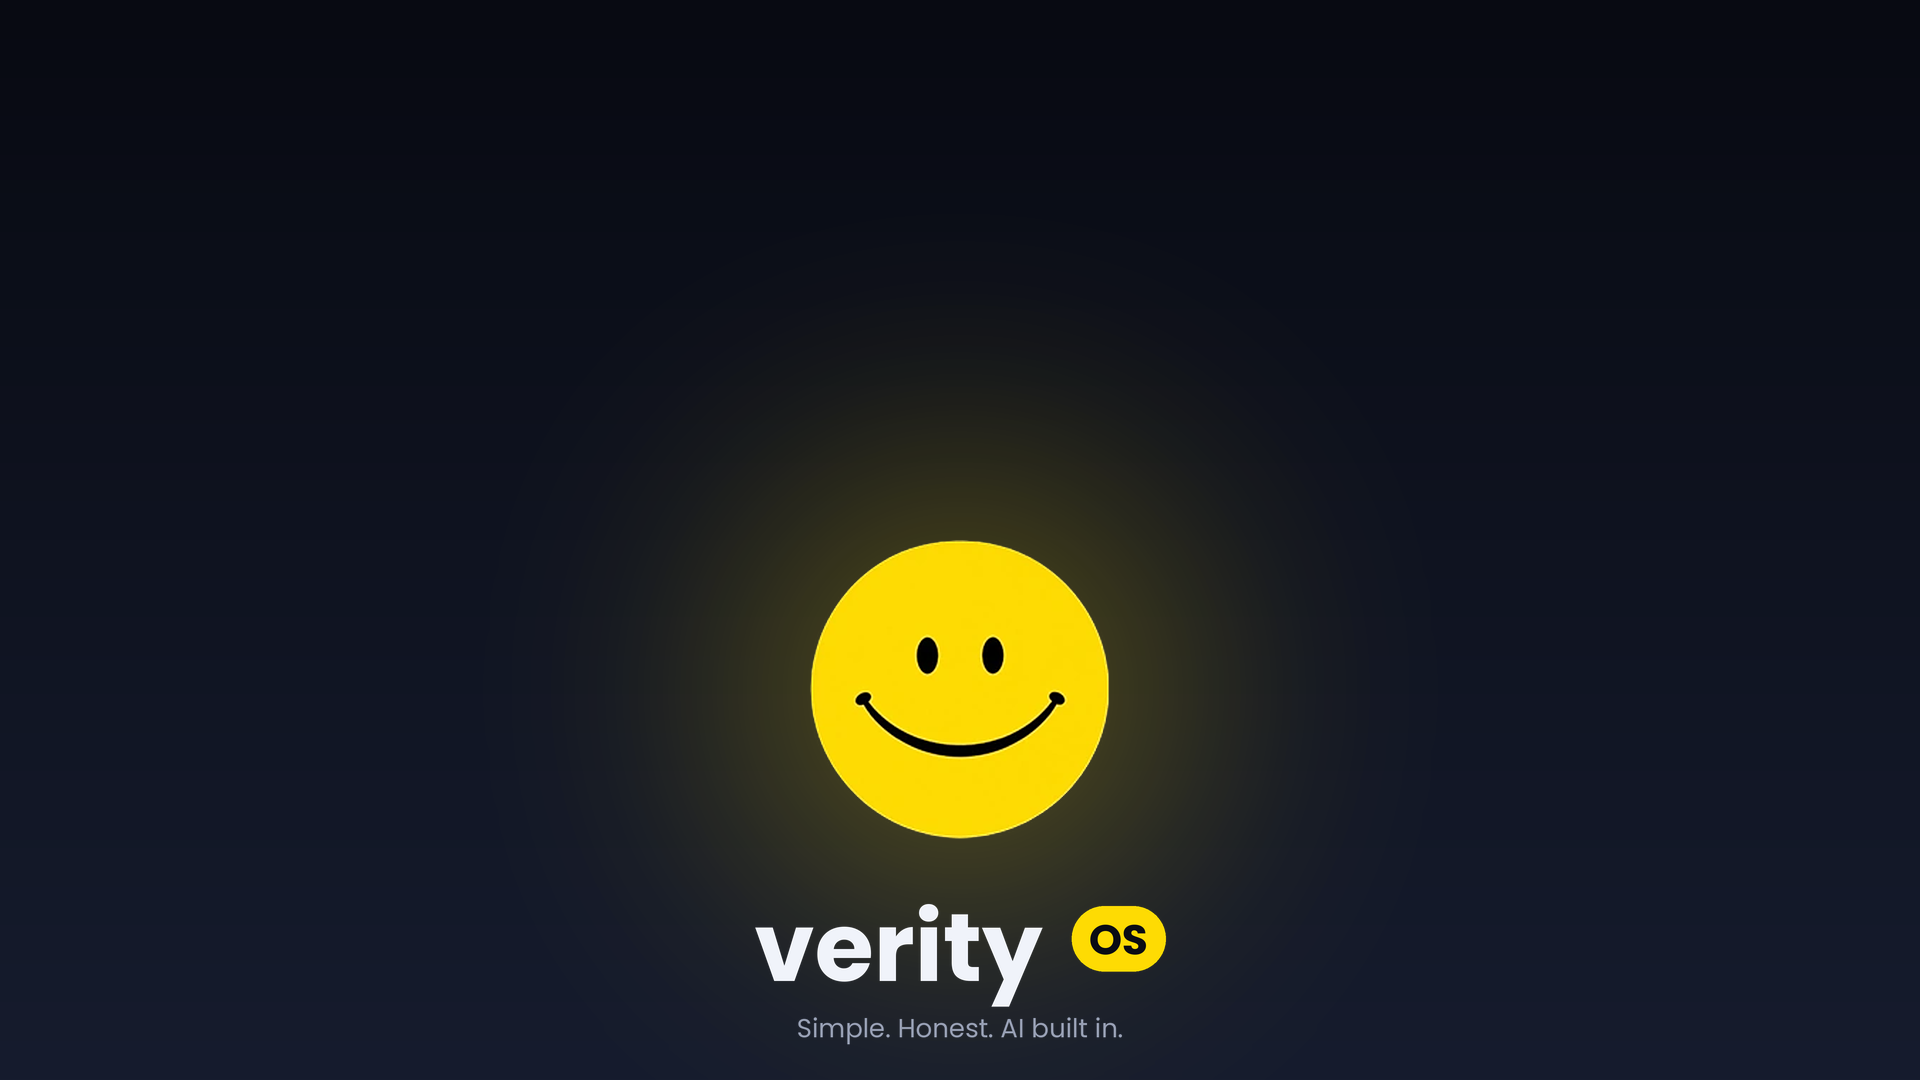
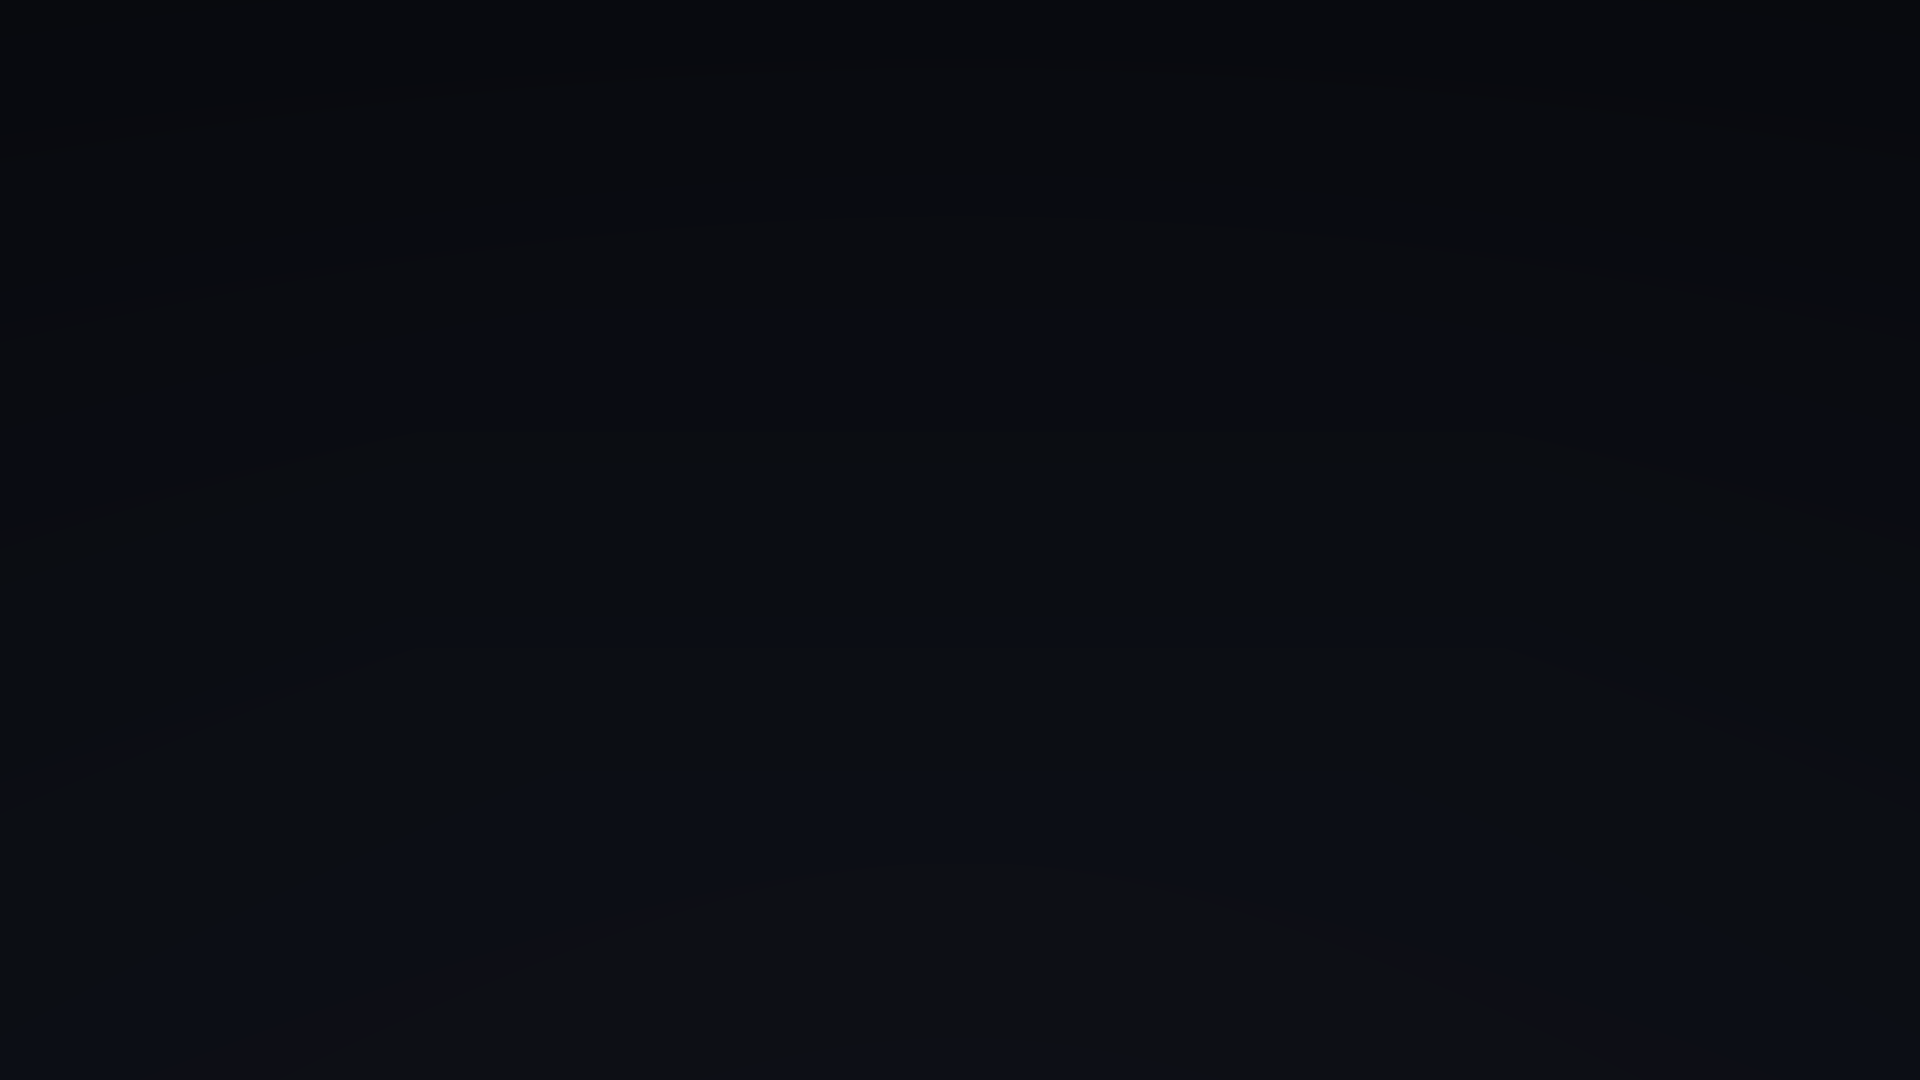
test: verify push access before v0.4.4 release

Changed region(s): [[0.3438, 0.3972, 0.6562, 0.9778]]

diff --git a/branding/make-splash.py b/branding/make-splash.py
@@ -1,58 +1,50 @@
 #!/usr/bin/env python3
-"""Generate Verity OS boot art from branding/logo-source.png (the smiley):
+"""Generate Verity OS boot art: plain dark backgrounds, yellow accent only.
 
   splash.png           640x480   ISO boot menu (BIOS syslinux)
   grub-background.png  1920x1080 GRUB menu on the installed system
-  logo.png             880x300   general purpose logo
+  logo.png             880x300   typographic "verity OS" wordmark
 
-Needs Pillow + numpy. Uses the Poppins font if present (falls back to DejaVu).
+No smiley, no tagline, no artwork: just a near-black background. The yellow
+accent lives in the menu colors (GRUB_COLOR_HIGHLIGHT, syslinux MENU COLOR),
+not in the image. Needs Pillow + numpy.
 """
 import os
 import numpy as np
-from PIL import Image, ImageDraw, ImageFilter, ImageFont
+from PIL import Image, ImageDraw, ImageFont
 
 HERE = os.path.dirname(os.path.abspath(__file__))
-SRC = os.path.join(HERE, "logo-source.png")
+WHITE, YELLOW, INK = (240, 243, 250), (255, 210, 26), (9, 12, 20)
 SS = 3                                              # supersampling for text
-INK, WHITE, GREY = (9, 12, 20), (240, 243, 250), (150, 158, 178)
 
 
 def font(size, weight="Bold"):
-    for p in (f"/usr/share/fonts/truetype/google-fonts/Poppins-{weight}.ttf",
-              "/usr/share/fonts/truetype/dejavu/DejaVuSans-Bold.ttf"):
+    for p in (
+        f"/usr/share/fonts/truetype/google-fonts/Poppins-{weight}.ttf",
+        "/usr/share/fonts/truetype/dejavu/DejaVuSans-Bold.ttf",
+        "C:/Windows/Fonts/seguibl.ttf" if weight == "Bold" else "C:/Windows/Fonts/segoeui.ttf",
+        "C:/Windows/Fonts/arialbd.ttf" if weight == "Bold" else "C:/Windows/Fonts/arial.ttf",
+    ):
         if os.path.exists(p):
             return ImageFont.truetype(p, size)
-    return ImageFont.load_default()
+    try:
+        return ImageFont.load_default(size=size)
+    except TypeError:
+        return ImageFont.load_default()
 
 
-def load_logo():
-    """The smiley, cropped to its circle, plus its main yellow."""
-    im = Image.open(SRC).convert("RGBA")
-    im = im.crop(im.getchannel("A").getbbox())
-    a = np.array(im)
-    solid = a[(a[..., 3] == 255) & (a[..., 0] > 240) & (a[..., 2] < 90)]
-    yellow = tuple(int(v) for v in np.median(solid[:, :3], axis=0)) if len(solid) else (255, 214, 0)
-    return im, yellow
-
-
-def logo_at(size):
-    im, _ = load_logo()
-    out = im.resize((size, size), Image.LANCZOS)
-    return out.filter(ImageFilter.UnsharpMask(radius=1.2, percent=60, threshold=2)) if size > im.width else out
-
-
-def vgradient(size, top, bottom):
+def dark(size, top=(10, 12, 17), bottom=(15, 18, 26), vignette=0.10):
+    """Near-black vertical gradient with a barely visible vignette - no artwork."""
     w, h = size
     col = np.linspace(0, 1, h)[:, None, None]
-    arr = (np.array(top) * (1 - col) + np.array(bottom) * col).astype(np.uint8)
-    return Image.fromarray(np.repeat(arr, w, axis=1), "RGB")
-
-
-def glow(canvas, cx, cy, radius, color, strength=0.35):
-    layer = Image.new("L", canvas.size, 0)
-    ImageDraw.Draw(layer).ellipse([cx - radius, cy - radius, cx + radius, cy + radius], fill=255)
-    layer = layer.filter(ImageFilter.GaussianBlur(radius * 0.55)).point(lambda v: int(v * strength))
-    canvas.paste(Image.new("RGB", canvas.size, color), (0, 0), layer)
+    arr = (np.array(top) * (1 - col) + np.array(bottom) * col).astype(np.float32)
+    arr = np.repeat(arr, w, axis=1)
+    if vignette > 0:
+        yy, xx = np.mgrid[0:h, 0:w]
+        d = np.sqrt(((xx - w / 2) / (w / 2)) ** 2 + ((yy - h / 2) / (h / 2)) ** 2)
+        fall = 1.0 - vignette * np.clip(d - 0.6, 0, None)
+        arr *= fall[..., None]
+    return Image.fromarray(arr.astype(np.uint8), "RGB")
 
 
 def text_layer(canvas_size, items):
@@ -82,55 +74,30 @@ def wordmark(x, y, size, yellow):
     return draw, tw + gap + pw
 
 
-def paste_text(img, items):
-    layer = text_layer(img.size, items)
-    img.paste(layer, (0, 0), layer)
-
-
 def splash(path):
-    _, Y = load_logo()
-    img = vgradient((640, 480), (10, 13, 22), (20, 26, 42))
-    glow(img, 76, 82, 62, Y, 0.28)
-    mark = logo_at(104)
-    img.paste(mark, (24, 30), mark)
-    wm, _ = wordmark(150, 36, 54, Y)
-    tag = lambda d: d.text((154 * SS, 108 * SS), "Simple. Honest. AI built in.", font=font(15 * SS, "Regular"), fill=GREY)
-    foot = lambda d: d.text((40 * SS, 452 * SS), "Verity OS", font=font(11 * SS, "Regular"), fill=(88, 96, 116))
-    paste_text(img, [wm, tag, foot])
-    ImageDraw.Draw(img).line([(40, 165), (600, 165)], fill=(40, 48, 68), width=1)
+    """Plain dark plate for the ISO boot menu - the menu text sits on top of it."""
+    img = dark((640, 480))
     img.save(path, optimize=True)
     print("wrote", path, img.size)
 
 
 def grub_background(path):
-    """Logo in the lower-middle: GRUB draws its menu in the upper part of the screen."""
-    _, Y = load_logo()
-    W, H = 1920, 1080
-    img = vgradient((W, H), (8, 10, 18), (22, 28, 46))
-    cx, cy = W // 2, 690
-    glow(img, cx, cy, 230, Y, 0.30)
-    mark = logo_at(300)
-    img.paste(mark, (cx - 150, cy - 150), mark)
-    size = 96
-    tmp = ImageDraw.Draw(Image.new("RGB", (4, 4)))
-    tw = tmp.textlength("verity", font=font(size * SS, "Bold")) / SS
-    total = tw + size * 0.30 + size * 0.98
-    wm, _ = wordmark(cx - total / 2, cy + 190, size, Y)
-    tag = lambda d: d.text((cx * SS - tmp.textlength("Simple. Honest. AI built in.", font=font(26 * SS, "Regular")) / 2,
-                            (cy + 320) * SS), "Simple. Honest. AI built in.", font=font(26 * SS, "Regular"), fill=GREY)
-    paste_text(img, [wm, tag])
+    """Plain dark plate for the installed system's GRUB menu."""
+    img = dark((1920, 1080), top=(9, 11, 16), bottom=(14, 16, 23))
     img.save(path, optimize=True)
     print("wrote", path, img.size)
 
 
 def logo_png(path):
-    _, Y = load_logo()
-    img = vgradient((880, 300), (10, 13, 22), (20, 26, 42))
-    glow(img, 150, 150, 120, Y, 0.28)
-    mark = logo_at(200)
-    img.paste(mark, (50, 50), mark)
-    wm, _ = wordmark(285, 85, 100, Y)
-    paste_text(img, [wm])
+    """Typographic wordmark only - no smiley, no tagline."""
+    img = dark((880, 300))
+    size = 100
+    tmp = ImageDraw.Draw(Image.new("RGB", (4, 4)))
+    tw = tmp.textlength("verity", font=font(size * SS, "Bold")) / SS
+    total = tw + size * 0.30 + size * 0.98
+    wm, _ = wordmark((880 - total) / 2, (300 - size * 0.9) / 2, size, YELLOW)
+    layer = text_layer(img.size, [wm])
+    img.paste(layer, (0, 0), layer)
     img.save(path, optimize=True)
     print("wrote", path, img.size)
 

diff --git a/README.md b/README.md
@@ -331,7 +331,7 @@ verity-install --dry-run  # walk the menus, change nothing, print the commands
 The installer will:
 
 1. Check boot mode (UEFI/BIOS) and internet (with a Wi-Fi fallback)
-2. Let you pick a disk (the live USB is hidden) and make you type its name to confirm
+2. Let you pick a disk (the live USB is hidden; disks under 12 GB are refused) and make you type its name to confirm — the summary shows how much storage the chosen edition needs
 3. Let you choose **Verity Hypr**, **Verity Desktop** (KDE) or **Terminal only**
 4. Ask for keymap, hostname, time zone, username and password
 5. Partition (GPT): 1 GiB FAT32 boot (UEFI) or bios_grub (BIOS), rest ext4 root
